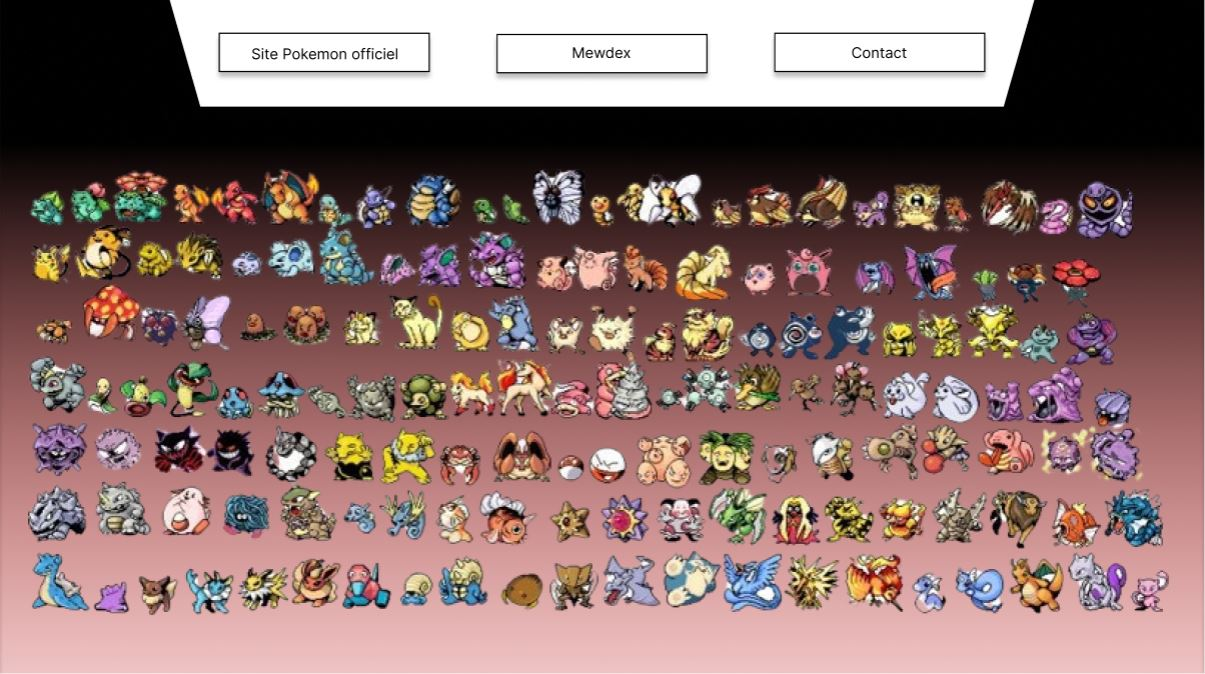
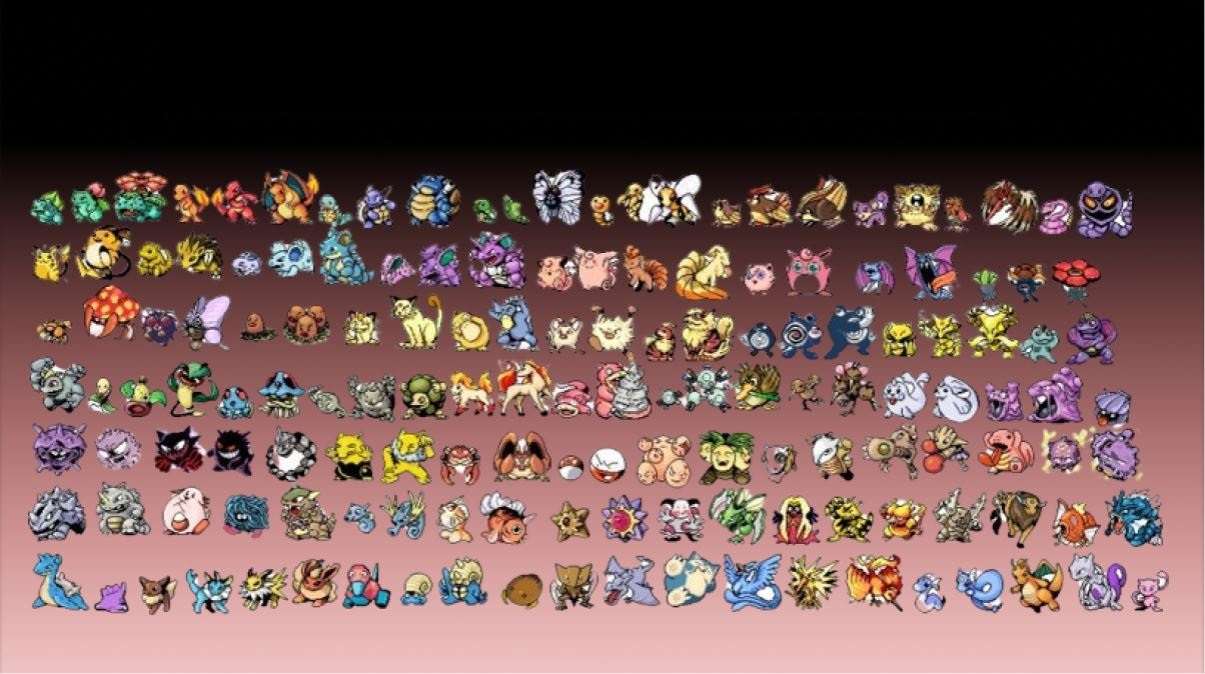
Commit " Changement Images et Liens Contact"
Commit " Changement Images et Liens Contact"

Changed region(s): [[0.1228, 0.0, 0.8598, 0.1558]]

diff --git a/mewdex.html b/mewdex.html
@@ -33,7 +33,7 @@
         </div>
     </nav>
     <header>
-        <h1> Mewdex </h1>
+        <h1> <img src="mewdex_texte-removebg-preview.png" alt="image"> </h1>
     </header>
 
     <section class="main" id="produits">
